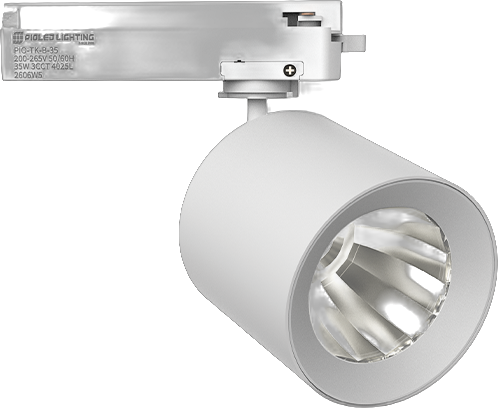
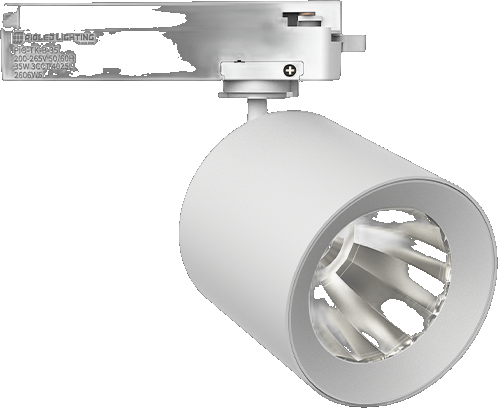
Harden Blaster, and actually wire harden() into the pipeline
Blaster's track adapter was sitting at about 54% opacity, so the gradient showed
straight through the top half of the fitting while the barrel below it was solid.
That is the "washed out" look.

harden() already existed but was never called from make-cutouts.py — it had only
ever been applied by hand to the five cut-outs it was written for, so any
regeneration silently dropped it. It is now part of the pipeline.

The solid-share test it used was too blunt for this case: Blaster was 80.8% solid,
above the 75% threshold, while its tenth-percentile alpha was 138. Three other
cut-outs sit at a similar solid share (circular 88.6%, base 88.9%, sky-spt-150
88.1%) but with p10 above 210 — they are soft-edged, not see-through, and
binarising them would have hardened a legitimate anti-aliased edge. The tenth
percentile separates the two cleanly, so harden() now tests both.

Across all 119 cut-outs nothing is left below p10 180.

diff --git a/scripts/make-cutouts.py b/scripts/make-cutouts.py
@@ -67,7 +67,14 @@ def harden(alpha, target=0.75, cut=128):
     sub = alpha > 10
     if not sub.any():
         return alpha
-    if (alpha >= 250)[sub].mean() >= target:
+    solid = (alpha >= 250)[sub].mean()
+    # The tenth percentile catches a different fault from the solid share: a mask
+    # can be 80% solid and still have a whole sub-assembly — Blaster's track
+    # adapter — sitting at ~54% opacity, which shows the gradient through it.
+    # Cut-outs that are merely soft-edged sit at 210+, so this only fires on the
+    # ones that are actually see-through.
+    p10 = float(np.percentile(alpha[sub], 10))
+    if solid >= target and p10 >= 180:
         return alpha
     return np.where(alpha >= cut, 255, 0).astype(np.uint8)
 
@@ -301,6 +308,7 @@ def main():
 
         # trim to the subject so the tile renderer only has to scale
         a = solidify(np.array(cut)[:, :, 3])
+        a = harden(a)
         if f'{category}/{slug}' in FILL_HOLES:
             cut = restore_holes(
                 Image.fromarray(np.dstack([np.array(cut)[:, :, :3], a]).astype(np.uint8), 'RGBA'),
